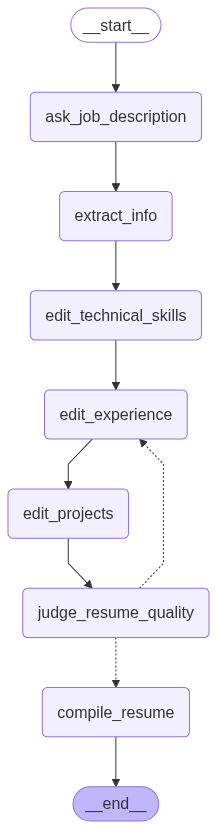
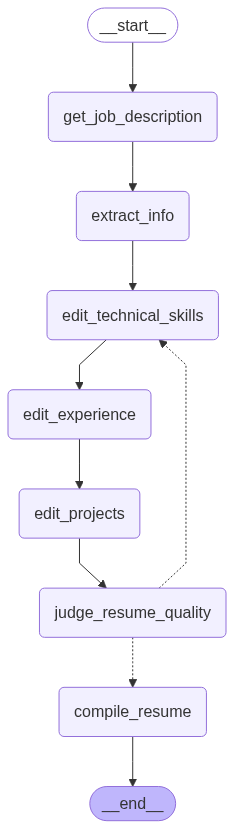
Tweaking Prompt

diff --git a/agent.py b/agent.py
@@ -10,6 +10,7 @@ from rich.panel import Panel
 from dotenv import load_dotenv
 from latex2pdf import compile_latex
 from utils import clean_the_text, extract_and_parse_json
+import pyperclip
 
 load_dotenv()
 
@@ -34,9 +35,54 @@ def get_resume_content(file_path="template/resume.tex"):
     with open(file_path, "r") as f:
         return f.read()
 
-def ask_job_description(state):
-    console.print(Panel("Please paste the job description here:", title="Job Description", border_style="green"))
-    job_description = console.input()
+def get_job_description(state):
+    console.print(Panel("Please copy the job description to your clipboard", title="Job Description", border_style="green"))
+    console.print("[bold cyan]1. Copy the job description from the website/document[/bold cyan]")
+    console.print("[bold cyan]2. Press Enter when ready...[/bold cyan]")
+    
+    # Wait for user to press Enter
+    input()
+    
+    try:
+        # Read from clipboard
+        job_description = pyperclip.paste().strip()
+        
+        # Debug: Show first 50 chars of what was copied
+        debug_preview = job_description[:50] + "..." if len(job_description) > 50 else job_description
+        console.print(f"[dim]Debug - Clipboard content (first 50 chars): {repr(debug_preview)}[/dim]")
+        
+        # Check if it's empty or contains error messages
+        if not job_description or "Clipboard is empty" in job_description or "Error" in job_description:
+            console.print("[bold red]Issue detected with clipboard content![/bold red]")
+            console.print("[bold yellow]Please copy the job description again using Ctrl+C and press Enter...[/bold yellow]")
+            console.print("[dim]Make sure you're copying from the actual job posting, not from this terminal[/dim]")
+            input()
+            job_description = pyperclip.paste().strip()
+        
+        # Validate minimum length (job descriptions should be substantial)
+        if len(job_description) < 100:
+            console.print(f"[bold yellow]Warning: Clipboard content is quite short ({len(job_description)} chars).[/bold yellow]")
+            console.print("Is this the complete job description? (y/n): ", end="")
+            confirmation = input().lower().strip()
+            if confirmation not in ['y', 'yes']:
+                console.print("Please copy the complete job description and press Enter...")
+                input()
+                job_description = pyperclip.paste().strip()
+        
+        if job_description:
+            # Show a preview of what was copied
+            preview = job_description[:300] + "..." if len(job_description) > 300 else job_description
+            console.print(Panel(f"[bold green]Job description copied successfully![/bold green]\n\n[bold]Length:[/bold] {len(job_description)} characters\n\n[bold]Preview:[/bold]\n{preview}", 
+                               title="Success", border_style="green"))
+        else:
+            console.print("[bold red]Still no valid content in clipboard. Please check and try again.[/bold red]")
+            return {"job_description": "", "resume": get_resume_content()}
+        
+    except Exception as e:
+        console.print(f"[bold red]Error accessing clipboard: {e}[/bold red]")
+        console.print("Please ensure you're running in a proper terminal environment.")
+        return {"job_description": "", "resume": get_resume_content()}
+    
     return {"job_description": job_description, "resume": get_resume_content()}
 
 def extract_info(state):
@@ -65,9 +111,9 @@ def extract_info(state):
 
 def edit_technical_skills(state):
     console.print(Panel("Editing Technical Skills...", title="Progress", border_style="blue"))
-    # llm = ChatGroq(temperature=0.7, model_name="llama-3.3-70b-versatile", api_key = GROQ_API_KEY)
-    endpoint = HuggingFaceEndpoint(temperature=0.7, repo_id="meta-llama/Meta-Llama-3-70B-Instruct", huggingfacehub_api_token=HUGGINGFACE_API_KEY, max_new_tokens=1024)
-    llm = ChatHuggingFace(llm=endpoint)
+    llm = ChatGroq(temperature=0.6, model_name="llama-3.3-70b-versatile", api_key = GROQ_API_KEY)
+    # endpoint = HuggingFaceEndpoint(temperature=0.7, repo_id="meta-llama/Meta-Llama-3-70B-Instruct", huggingfacehub_api_token=HUGGINGFACE_API_KEY, max_new_tokens=1024)
+    # llm = ChatHuggingFace(llm=endpoint)
     resume_content = state["tailored_resume"]
 
     skills_section_regex = r"(\\section{Technical Skills}.*?\\vspace{-13pt})"
@@ -93,10 +139,11 @@ def edit_technical_skills(state):
             {feedback_context}
 
             Rewrite the 'Technical Skills' section below to align with the job description. Follow these rules:
+            - Make sure to not directly copy the job description skills to the resume. You can use the skills from the job description as a reference to add more skills to the resume.
             - Add any crucial skills from the job description that are missing.
             - Remove any skills that are irrelevant to the target job to reduce clutter and improve focus.
             - Do NOT use the `textbf{{}}` command to bold any skills in this section.
-            - Make sure to not directly copy the job description skills to the resume.
+            - Do not change certfications, leave them as they are.
 
             Your output MUST be ONLY the updated LaTeX code for the 'Technical Skills' section, wrapped in a single markdown block like this: ```latex [your code here] ```.
 
@@ -124,7 +171,7 @@ def edit_technical_skills(state):
 def edit_experience(state):
     console.print(Panel("Editing Experience...", title="Progress", border_style="blue"))
     # llm = ChatGroq(temperature=0.7, model_name="llama-3.3-70b-versatile", api_key = GROQ_API_KEY)
-    endpoint = HuggingFaceEndpoint(temperature=0.7, repo_id="meta-llama/Meta-Llama-3-70B-Instruct", huggingfacehub_api_token=HUGGINGFACE_API_KEY, max_new_tokens=1024)
+    endpoint = HuggingFaceEndpoint(temperature=0.3, repo_id="meta-llama/Meta-Llama-3-70B-Instruct", huggingfacehub_api_token=HUGGINGFACE_API_KEY, max_new_tokens=1024)
     llm = ChatHuggingFace(llm=endpoint)
     resume_content = state["tailored_resume"]
 
@@ -146,17 +193,21 @@ def edit_experience(state):
             Please specifically address the feedback and downsides mentioned above while making improvements to the Work Experience section.
         """
 
-    prompt = f"""You are an elite Resume Architect and LaTeX specialist. Your sole function is to transform a generic LaTeX resume into a highly targeted application for a specific job description.
+    prompt = f"""You are an elite Resume Architect and LaTeX specialist. Your sole function is to transform a LaTeX resume into a highly targeted application for a specific job description.
 
         {feedback_context}
 
         Rewrite the bullet points in the LaTeX 'Work Experience' section below to be achievement-oriented, using the STAR (Situation, Task, Action, Result) or XYZ (Accomplished [X] as measured by [Y], by doing [Z]) framework. Follow these rules:
         - Quantify everything possible. If the original experience lacks metrics, infer and add plausible, impressive metrics that align with the role's responsibilities.
         - Seamlessly and naturally integrate keywords and concepts from the job description throughout the narrative.
-        - Use the `textbf{{}}` command to bold the most critical keywords that directly match the job description. Do not using **i** or __i__ to bold the keywords.
-        - You can add more details and points if needed to make the experience more relevant to the job description but make sense and be cohesive.
+        - Use the `textbf{{}}` command to bold the most critical keywords that directly match the job description.
+        - This is LaTeX code. Use ONLY `\\textbf{{keyword}}` to bold keywords. NEVER use **keyword** or __keyword__ markdown formatting.
+        - Critical: Only make the change if it makes sense technically or logically.
+        - You can add more details and points if needed to make the experience more relevant to the job description.
+        - If change is needed in the experience to convey the narrative better, then change the entire experience point except the company name and the position title.
+        - Do not make it sound like it has been written by a robot.
+        - Do not overuse the keywords from the job description.
         - Don't make the experience too long or too short.
-        - Also don't make it sound like it has been written by a robot.
 
         Your output MUST be ONLY the updated LaTeX code for the 'Work Experience' section, wrapped in a single markdown block like this: ```latex [your code here] ```.
 
@@ -183,9 +234,9 @@ def edit_experience(state):
 
 def edit_projects(state):
     console.print(Panel("Editing Projects...", title="Progress", border_style="blue"))
-    # llm = ChatGroq(temperature=0.7, model_name="llama-3.3-70b-versatile", api_key = GROQ_API_KEY)
-    endpoint = HuggingFaceEndpoint(temperature=0.7, repo_id="meta-llama/Meta-Llama-3-70B-Instruct", huggingfacehub_api_token=HUGGINGFACE_API_KEY, max_new_tokens=1024)
-    llm = ChatHuggingFace(llm=endpoint)
+    llm = ChatGroq(temperature=0.3, model_name="llama-3.3-70b-versatile", api_key = GROQ_API_KEY)
+    # endpoint = HuggingFaceEndpoint(temperature=0.7, repo_id="meta-llama/Meta-Llama-3-70B-Instruct", huggingfacehub_api_token=HUGGINGFACE_API_KEY, max_new_tokens=1024)
+    # llm = ChatHuggingFace(llm=endpoint)
     resume_content = state["tailored_resume"]
 
     projects_section_regex = r"(\\section{Projects}.*?\\resumeSubHeadingListEnd\s*\\vspace{-20pt})"
@@ -206,16 +257,19 @@ def edit_projects(state):
             Please specifically address the feedback and downsides mentioned above while making improvements to the Projects section.
         """
 
-    prompt = f"""You are an elite Resume Architect and LaTeX specialist. Your sole function is to transform a generic LaTeX resume into a highly targeted application for a specific job description.
+    prompt = f"""You are an elite Resume Architect and LaTeX specialist. Your sole function is to transform a LaTeX resume into a highly targeted application for a specific job description.
 
         {feedback_context}
 
         Rewrite the bullet points in the LaTeX 'Projects' section below to be achievement-oriented, using the STAR (Situation, Task, Action, Result) or XYZ (Accomplished [X] as measured by [Y], by doing [Z]) framework. Follow these rules:
         - Quantify everything possible. If the original resume lacks metrics, infer and add plausible, impressive metrics that align with the role's responsibilities.
         - Seamlessly and naturally integrate keywords and concepts from the job description throughout the narrative.
+        - Use the `textbf{{}}` command to bold the most critical keywords that directly match the job description.
+        - This is LaTeX code. Use ONLY `\\textbf{{keyword}}` to bold keywords. NEVER use **keyword** or __keyword__ markdown formatting.
         - You can add more details and points if needed to make the project more relevant to the job description.
-        - Use the `textbf{{}}` command to bold the most critical keywords that directly match the job description. Do not using **i** or __i__ to bold the keywords.
         - You can add more points to the existing project if needed to make it more relevant to the job description but make sense and be cohesive.
+        - You cannot change the project title, only the bullet points.
+        - Do not overuse the keywords from the job description.
 
         Your output MUST be ONLY the updated LaTeX code for the 'Projects' section, wrapped in a single markdown block like this: ```latex [your code here] ```.
 
@@ -320,15 +374,15 @@ def judge_resume_quality(state):
 
 def decide_after_judging(state):
     if state["score"] < 90 and state["iteration_count"] < 3:
-        console.print(Panel(f"Score {state['score']}/100 is below threshold. Re-editing experience. Iteration: {state['iteration_count']}", title="Decision", border_style="red"))
-        return "edit_experience"
+        console.print(Panel(f"Score {state['score']}/100 is below threshold. Re-editing technical skills. Iteration: {state['iteration_count']}", title="Decision", border_style="red"))
+        return "edit_technical_skills"
     else:
         console.print(Panel(f"Score {state['score']}/100 is sufficient or max iterations reached. Proceeding to compile. Iteration: {state['iteration_count']}", title="Decision", border_style="green"))
         return "compile_resume"
 
 workflow = StateGraph(AgentState)
 
-workflow.add_node("ask_job_description", ask_job_description)
+workflow.add_node("get_job_description", get_job_description)
 workflow.add_node("extract_info", extract_info)
 workflow.add_node("edit_technical_skills", edit_technical_skills)
 workflow.add_node("edit_experience", edit_experience)
@@ -336,8 +390,8 @@ workflow.add_node("edit_projects", edit_projects)
 workflow.add_node("compile_resume", compile_resume)
 workflow.add_node("judge_resume_quality", judge_resume_quality)
 
-workflow.set_entry_point("ask_job_description")
-workflow.add_edge("ask_job_description", "extract_info")
+workflow.set_entry_point("get_job_description")
+workflow.add_edge("get_job_description", "extract_info")
 workflow.add_edge("extract_info", "edit_technical_skills")
 workflow.add_edge("edit_technical_skills", "edit_experience")
 workflow.add_edge("edit_experience", "edit_projects")
@@ -347,7 +401,7 @@ workflow.add_conditional_edges(
     "judge_resume_quality",
     decide_after_judging,
     {
-        "edit_experience": "edit_experience",
+        "edit_technical_skills": "edit_technical_skills",
         "compile_resume": "compile_resume",
     }
 )

diff --git a/template/resume.tex b/template/resume.tex
@@ -102,7 +102,7 @@
 \begin{center}
     {\huge \scshape Amit Suresh Luhar} \\[2mm]
     \small \raisebox{-0.1\height}
-    \faPhone\ \underline{(607) 352-9075} ~ 
+    \faPhone\ \underline{(607) 352-0975} ~ 
     {\faEnvelope\  \underline{\href{mailto:aluhar1@binghamton.edu}{aluhar1@binghamton.edu}}} ~ 
     {\faLinkedin\ \underline{\href{https://www.linkedin.com/in/amit-luhar/}{linkedin.com/in/amit-luhar}}}  ~
     {\faGithub\ \underline{\href{https://github.com/dedsec995}{github.com/deddsec995}}} ~
